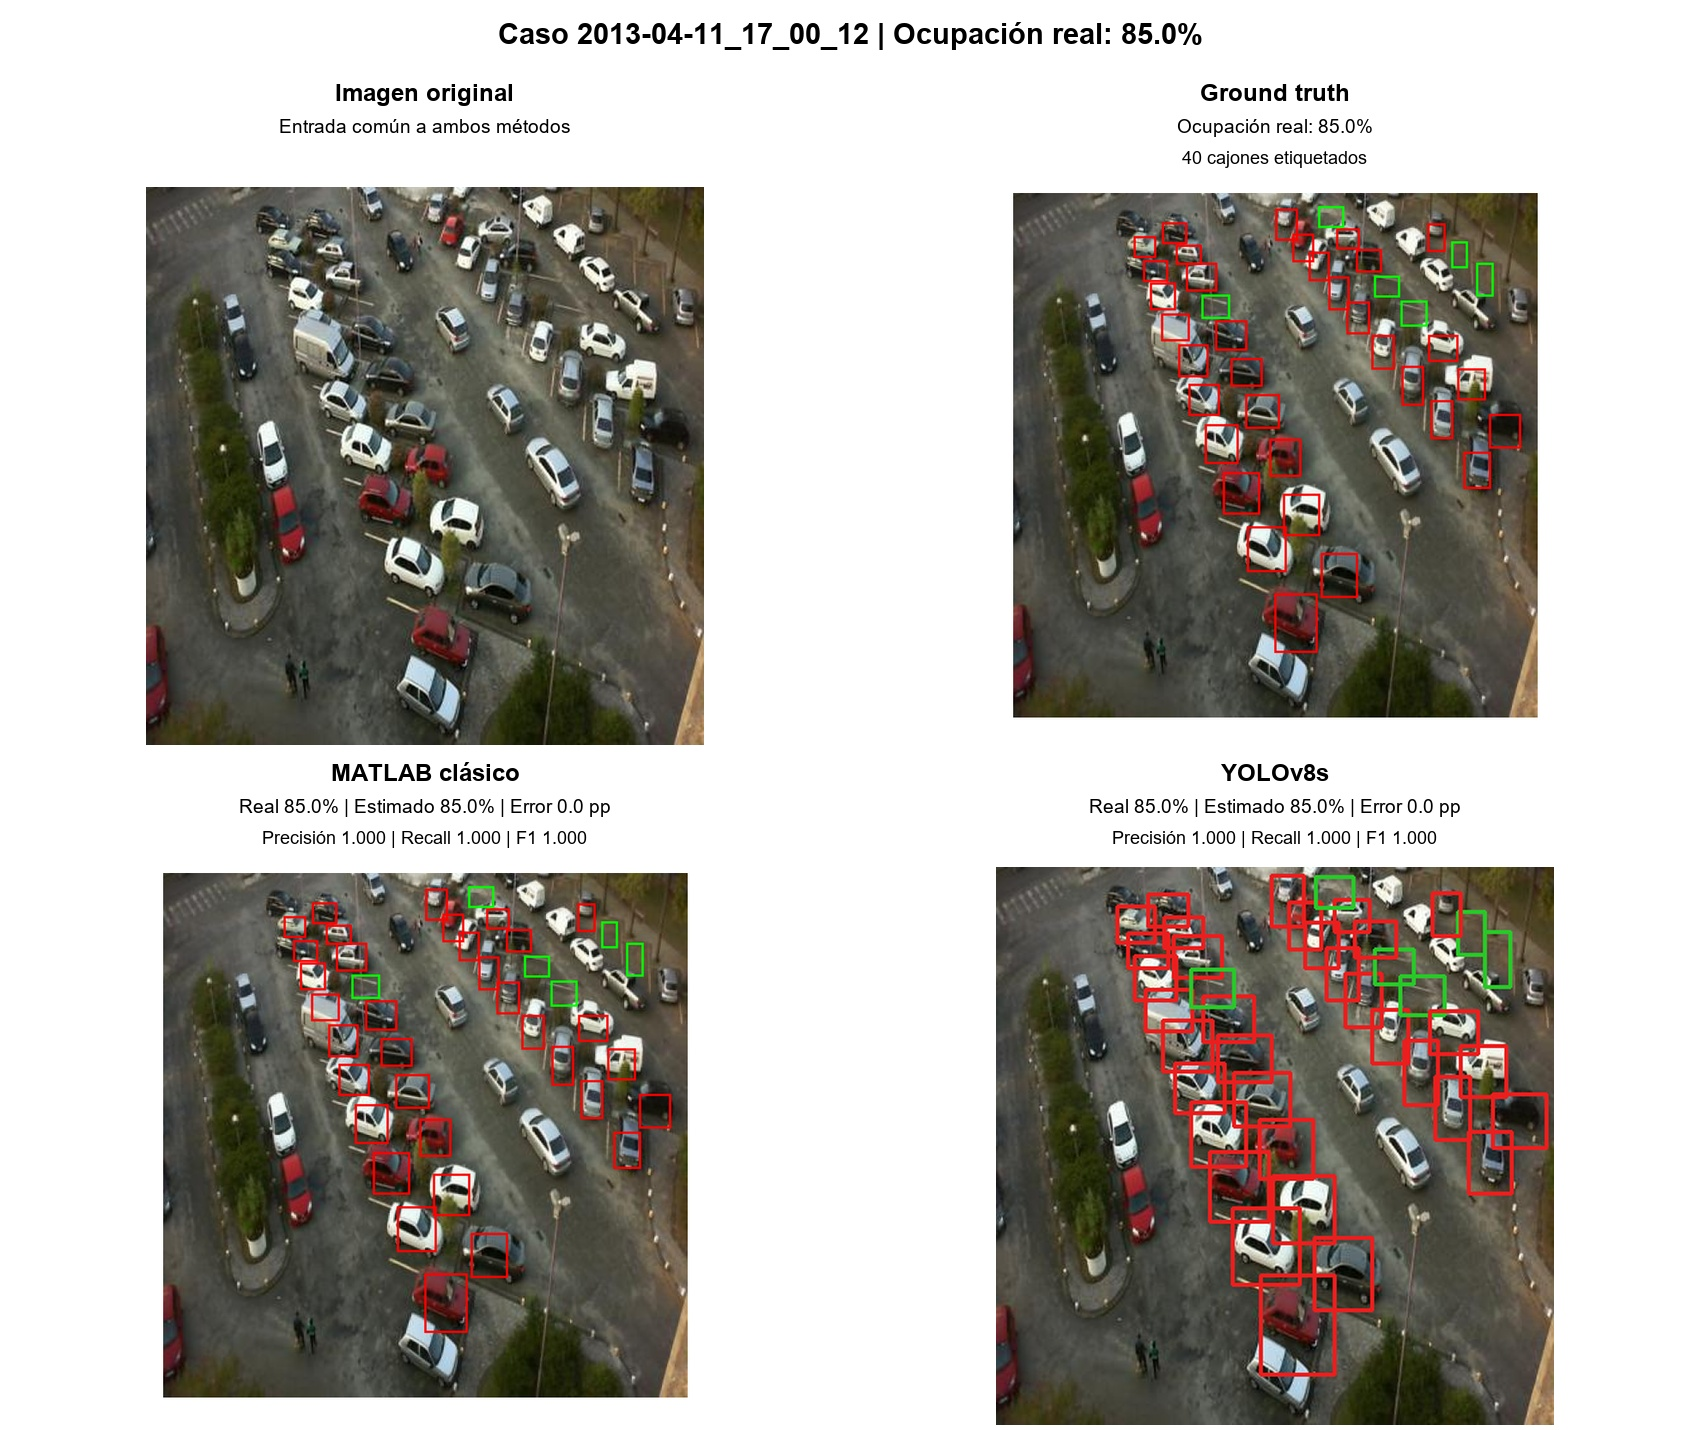
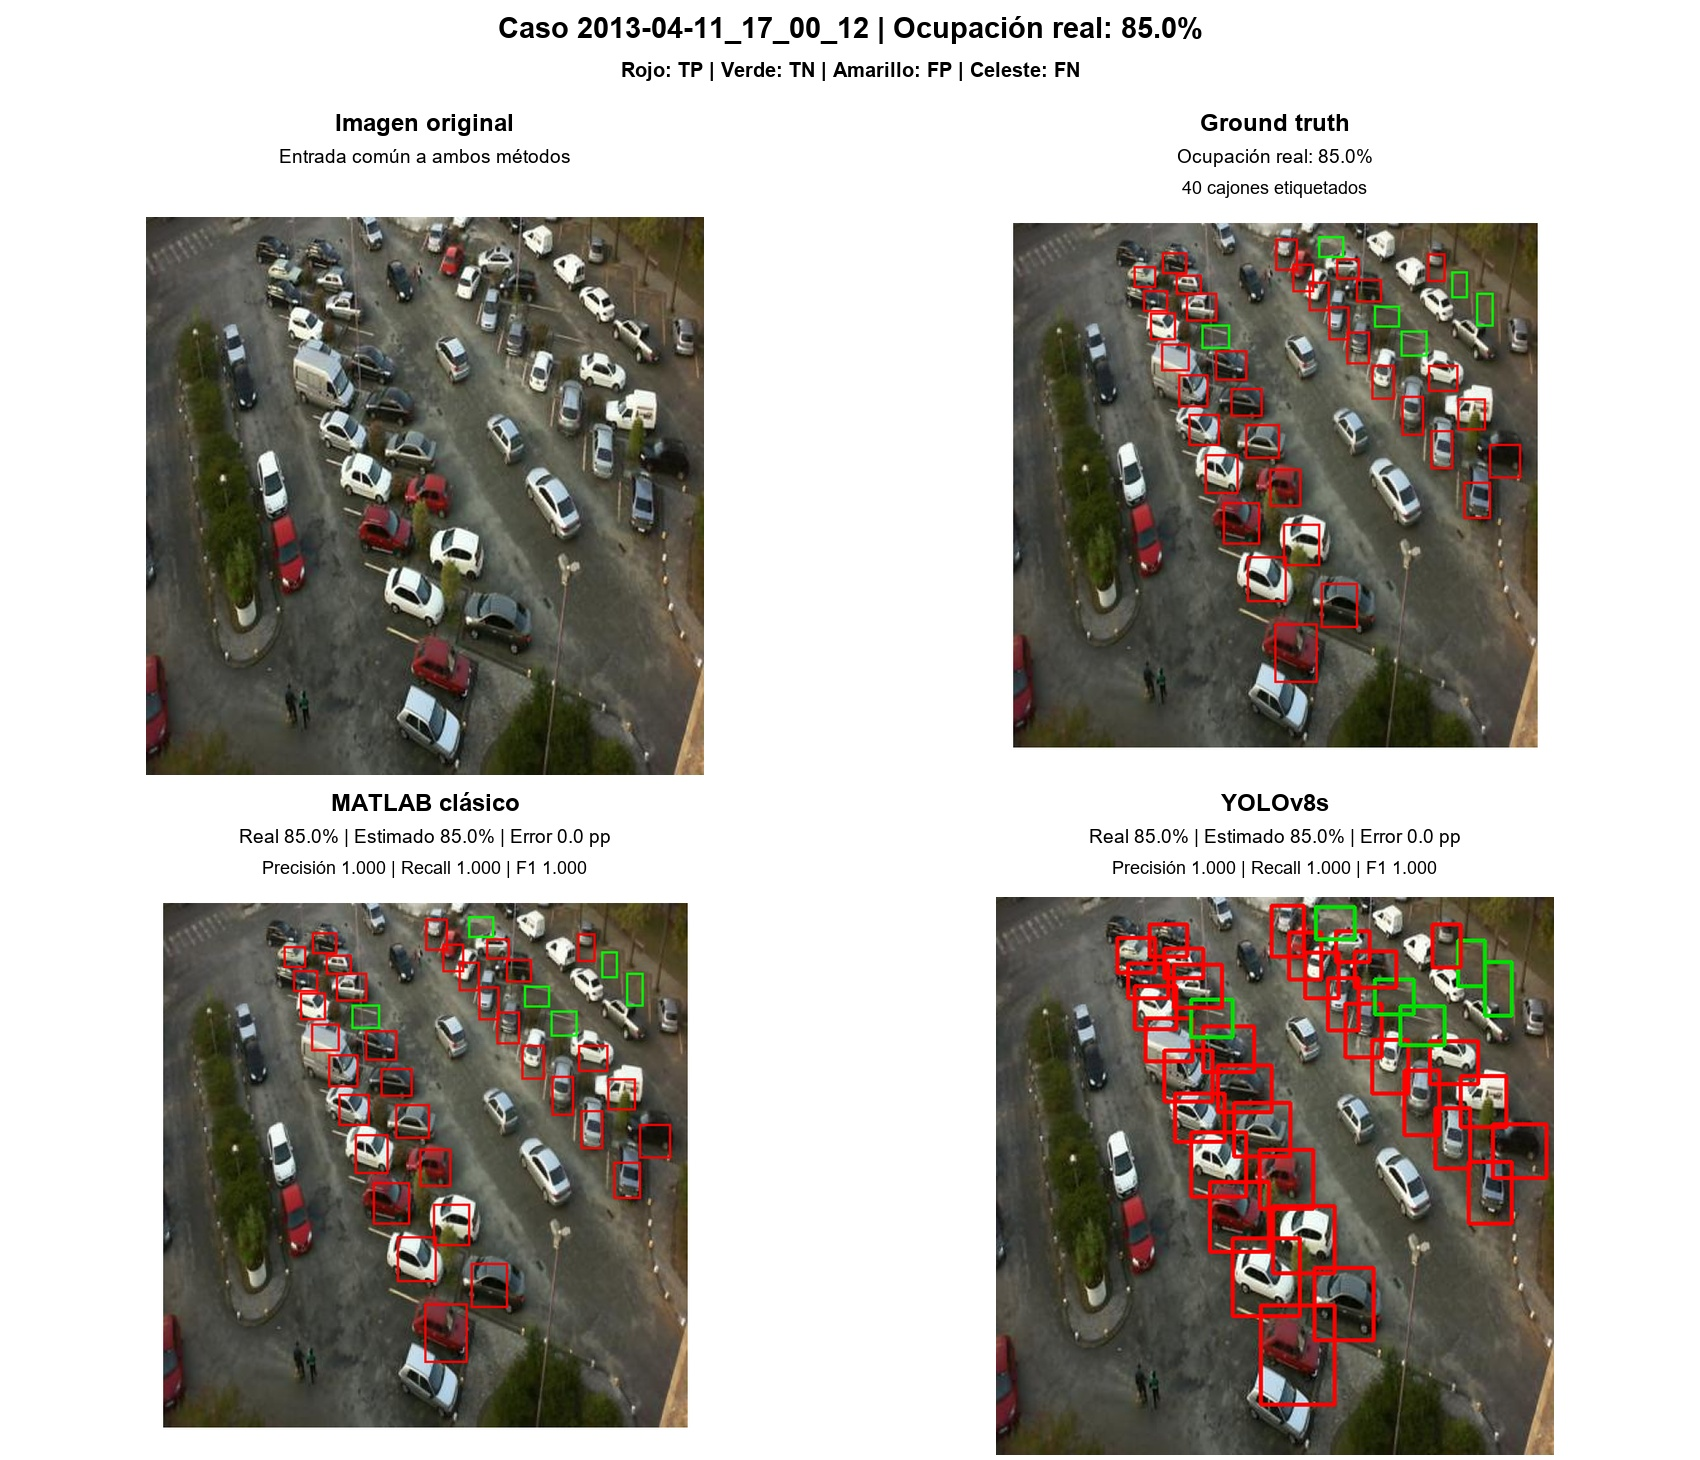
Agrega leyenda TP TN FP FN a comparativas

diff --git a/PC5_OCUPACION_ESTACIONAMIENTOS/02_CODIGO/02_PYTHON_YOLO/generar_comparativas.py b/PC5_OCUPACION_ESTACIONAMIENTOS/02_CODIGO/02_PYTHON_YOLO/generar_comparativas.py
@@ -26,6 +26,12 @@ from ultralytics import YOLO
 
 COLORES = {0: (40, 200, 40), 1: (30, 30, 235)}  # BGR: libre / ocupado
 NOMBRES = {0: "libre", 1: "ocupado"}
+COLORES_EVALUACION = {
+    "TP": (0, 0, 255),       # rojo
+    "TN": (0, 220, 0),       # verde
+    "FP": (0, 230, 230),     # amarillo
+    "FN": (230, 230, 0),     # celeste
+}
 
 
 def argumentos() -> argparse.Namespace:
@@ -111,6 +117,48 @@ def metricas(gt_c: np.ndarray, gt_b: np.ndarray, pr_c: np.ndarray, pr_b: np.ndar
     return tp, fp, fn, precision, recall, f1
 
 
+def emparejar_cajas(gt_b: np.ndarray, pr_b: np.ndarray, umbral: float) -> list[tuple[int, int]]:
+    """Empareja cajas por IoU sin usar la clase, una a una."""
+    matriz = iou(gt_b, pr_b)
+    pares: list[tuple[int, int]] = []
+    while matriz.size:
+        gi, pi = np.unravel_index(np.argmax(matriz), matriz.shape)
+        if matriz[gi, pi] < umbral:
+            break
+        pares.append((int(gi), int(pi)))
+        matriz[gi, :] = -1
+        matriz[:, pi] = -1
+    return pares
+
+
+def dibujar_evaluacion(imagen: np.ndarray, gt_c: np.ndarray, gt_b: np.ndarray,
+                       pr_c: np.ndarray, pr_b: np.ndarray, umbral: float) -> np.ndarray:
+    """Dibuja TP, TN, FP y FN con el mismo código de color usado por MATLAB."""
+    lienzo = imagen.copy()
+    pares = emparejar_cajas(gt_b, pr_b, umbral)
+    pred_asociada = {gi: pi for gi, pi in pares}
+    usados_pred = {pi for _, pi in pares}
+
+    for gi, caja in enumerate(gt_b):
+        real = int(gt_c[gi])
+        if gi in pred_asociada:
+            pred = int(pr_c[pred_asociada[gi]])
+            tipo = "TP" if real == 1 and pred == 1 else \
+                   "TN" if real == 0 and pred == 0 else \
+                   "FP" if real == 0 and pred == 1 else "FN"
+        else:
+            tipo = "FN" if real == 1 else "TN"
+        x1, y1, x2, y2 = np.rint(caja).astype(int)
+        cv2.rectangle(lienzo, (x1, y1), (x2, y2), COLORES_EVALUACION[tipo], 2)
+
+    # Una predicción ocupada sin caja real asociada también es un falso positivo.
+    for pi, caja in enumerate(pr_b):
+        if pi not in usados_pred and int(pr_c[pi]) == 1:
+            x1, y1, x2, y2 = np.rint(caja).astype(int)
+            cv2.rectangle(lienzo, (x1, y1), (x2, y2), COLORES_EVALUACION["FP"], 2)
+    return lienzo
+
+
 def dibujar_yolo(imagen: np.ndarray, cajas: np.ndarray, clases: np.ndarray,
                  confianzas: np.ndarray, real: float, estimado: float,
                  precision: float, recall: float, f1: float) -> np.ndarray:
@@ -157,12 +205,15 @@ def tarjeta(ruta: Path, titulo: str, detalle: str = "", metricas: str = "",
 def comparativa(paneles: list[tuple[Path, str, str, str, bool]],
                 encabezado: str, salida: Path) -> None:
     cards = [tarjeta(*panel) for panel in paneles]
-    margen_superior = 70
+    margen_superior = 100
     lienzo = Image.new("RGB", (1700, 2 * 680 + margen_superior), "white")
     for i, card in enumerate(cards):
         lienzo.paste(card, ((i % 2) * 850, margen_superior + (i // 2) * 680))
-    ImageDraw.Draw(lienzo).text((850, 34), encabezado, font=fuente(29, True),
-                                fill="black", anchor="mm")
+    dibujo = ImageDraw.Draw(lienzo)
+    dibujo.text((850, 28), encabezado, font=fuente(29, True), fill="black", anchor="mm")
+    dibujo.text((850, 70),
+                 "Rojo: TP | Verde: TN | Amarillo: FP | Celeste: FN",
+                 font=fuente(20, True), fill="black", anchor="mm")
     salida.parent.mkdir(parents=True, exist_ok=True)
     lienzo.save(salida, quality=95)
 
@@ -216,9 +267,12 @@ def main() -> None:
         estimado = 100 * np.mean(pr_c == 1) if len(pr_c) else 0.0
 
         salida_individual = salida_yolo / f"yolo_{caso}.png"
+        salida_evaluacion = salida_yolo / f"evaluacion_yolo_{caso}.png"
         salida_yolo.mkdir(parents=True, exist_ok=True)
         cv2.imwrite(str(salida_individual), dibujar_yolo(
             imagen, pr_b, pr_c, conf, real, estimado, precision, recall, f1))
+        cv2.imwrite(str(salida_evaluacion), dibujar_evaluacion(
+            imagen, gt_c, gt_b, pr_c, pr_b, args.iou_metrica))
 
         m = matlab[caso]
         filas_yolo.append({
@@ -247,12 +301,12 @@ def main() -> None:
                 (ruta_imagen, "Imagen original", "Entrada común a ambos métodos", "", False),
                 (carpeta_caso / "08_ground_truth.png", "Ground truth",
                  f"Ocupación real: {real:.1f}%", "40 cajones etiquetados", True),
-                (carpeta_caso / "09_prediccion.png", "MATLAB clásico",
+                (carpeta_caso / "10_comparacion.png", "MATLAB clásico",
                  f"Real {real:.1f}% | Estimado {float(m['pp']):.1f}% | Error {abs(float(m['pr'])-float(m['pp'])):.1f} pp",
                  f"Precisión {float(m['P']):.3f} | Recall {float(m['R']):.3f} | F1 {float(m['F1']):.3f}", True),
-                (salida_individual, "YOLOv8s",
+                (salida_evaluacion, "YOLOv8s",
                  f"Real {real:.1f}% | Estimado {estimado:.1f}% | Error {abs(real-estimado):.1f} pp",
-                 f"Precisión {precision:.3f} | Recall {recall:.3f} | F1 {f1:.3f}", True),
+                 f"Precisión {precision:.3f} | Recall {recall:.3f} | F1 {f1:.3f}", False),
             ],
             f"Caso {caso} | Ocupación real: {real:.1f}%",
             salida_comp / f"matlab_vs_yolo_{caso}.jpg",
